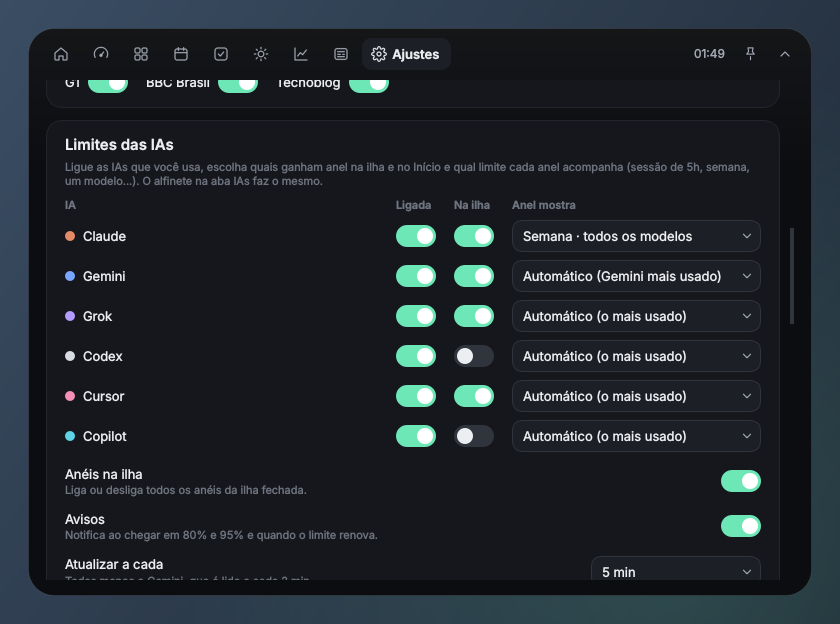
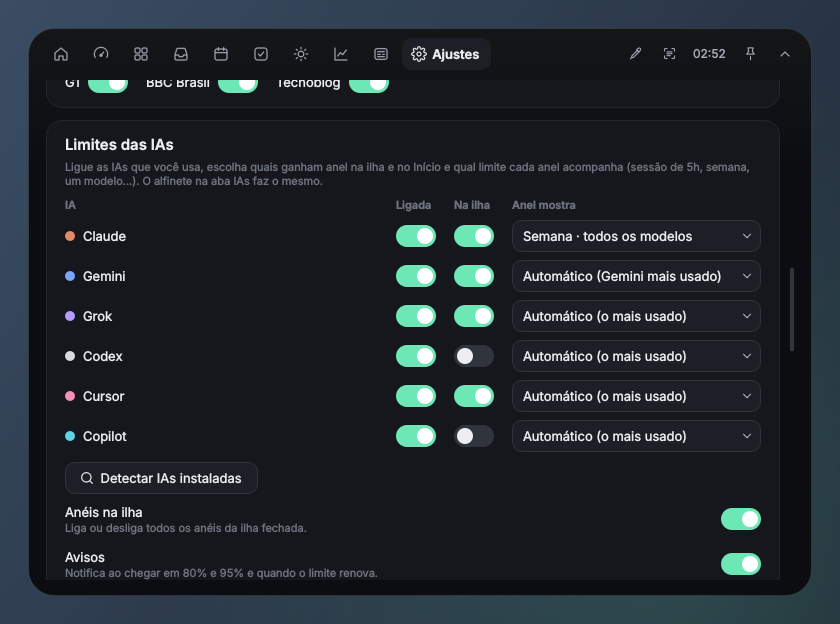
Prévias, documentação e ajustes finais da 1.2 (comandos, ritmo de consumo, estante)
Claude-Session: https://claude.ai/code/session_013kUwvXwXVcj5Q69VaPB3wL

diff --git a/scripts/preview.py b/scripts/preview.py
@@ -38,9 +38,9 @@ def demo_fetchers() -> dict:
             "claude",
             "ok",
             [
-                Window("session", "Sessão · 5h", 62, now + 2 * H + 14 * 60),
-                Window("weekly", "Semana · todos os modelos", 38, now + 3 * 86400 + 5 * H),
-                Window("weekly_opus", "Semana · Opus", 21, now + 3 * 86400 + 5 * H),
+                Window("session", "Sessão · 5h", 62, now + 2 * H + 14 * 60, period=5 * H),
+                Window("weekly", "Semana · todos os modelos", 38, now + 3 * 86400 + 5 * H, period=7 * 86400),
+                Window("weekly_opus", "Semana · Opus", 21, now + 3 * 86400 + 5 * H, period=7 * 86400),
             ],
             plan="Max 5x",
             source="Claude Code",
@@ -147,6 +147,19 @@ def seed(store: Store) -> None:
     store.add_shortcut("url", "Claude", "https://claude.ai")
     store.add_shortcut("folder", "Downloads", "/tmp")
     store.add_shortcut("url", "Gmail", "https://mail.google.com")
+    import math as _math
+
+    now_ts = time.time()
+    for provider, key, peak in (
+        ("claude", "session", 62),
+        ("antigravity", "model:gemini-3-pro", 24),
+        ("cursor", "plan", 72),
+    ):
+        for step in range(0, 24 * 12):  # uma amostra a cada 5 min nas últimas 24 h
+            ts = now_ts - (24 * 12 - step) * 300
+            phase = (step % 60) / 60  # janela de 5h que renova
+            used = min(100.0, peak * (0.15 + 0.85 * phase) + 4 * _math.sin(step / 7))
+            store.add_sample(provider, key, ts, max(0.0, used))
     import math
 
     plan = [
@@ -432,6 +445,55 @@ def main() -> None:
     media.state_changed.emit(None)
     settle(island, 700)
     shot(island, out / "30-ilha-clima.png", 18)
+    from PySide6.QtCore import QMimeData, QPoint
+
+    from ventude.ui.toast import Toast
+
+    ctx.shelf.add_text("Endereço da reunião: Av. Paulista, 1000")
+    ctx.shelf.add_paths([str(Path.home()), sys.executable, "https://github.com/3Gb3/Ventude_Notch"])
+    ctx.timer.start_pomodoro()
+    media.state = state
+    media.state_changed.emit(state)
+    settle(island, 800)
+    shot(island, out / "32-ilha-timer-estante.png", 18)
+    island.show_toast(
+        Toast(
+            "Claude: 85% usado",
+            "Sessão · 5h chegou a 85%. Renova em 1h 10min.",
+            icon="gauge",
+            color="#E38B67",
+            seconds=30,
+            kind="limits",
+        )
+    )
+    settle(island, 700)
+    shot(island, out / "33-aviso-na-ilha.png", 18)
+    island._cancel_toasts()
+    island.expand("home")
+    settle(island, 700)
+    shot(island, out / "34-inicio-timer.png")
+    island.panel.select("limits")
+    settle(island, 600)
+    shot(island, out / "35-ias-ritmo.png")
+    island.panel.select("shelf")
+    settle(island, 600)
+    shot(island, out / "36-estante.png")
+    island.panel.command.open_bar("t: revisar PR do app")
+    settle(island, 300)
+    shot(island, out / "37-comandos-tarefa.png")
+    island.panel.command.open_bar("git")
+    settle(island, 300)
+    shot(island, out / "38-comandos-atalho.png")
+    island.panel.command.close_bar()
+    hint = island.panel.drop_hint
+    hint.set_zones(["shelf", "shortcuts"])
+    hint.set_active("shelf")
+    hint.show()
+    hint.raise_()
+    settle(island, 200)
+    shot(island, out / "39-soltar-duas-areas.png")
+    hint.hide()
+    _ = (QMimeData, QPoint)
     island.expand("settings")
     settle(island, 400)
     page = island.panel.pages["settings"]

diff --git a/src/ventude/ui/pages/limits.py b/src/ventude/ui/pages/limits.py
@@ -5,7 +5,7 @@ from __future__ import annotations
 from PySide6.QtCore import Qt, Signal
 from PySide6.QtWidgets import QGridLayout, QHBoxLayout, QPushButton, QSizePolicy, QVBoxLayout, QWidget
 
-from ventude.core.timefmt import ago, duration, resets_text
+from ventude.core.timefmt import ago, duration, resets_text, short_reset
 from ventude.limits.model import Report, Window
 from ventude.ui import icons, theme
 from ventude.ui.context import AppContext
@@ -179,15 +179,20 @@ class ProviderCard(Card):
         if report.state == "ok":
             history = self.ctx.limits.history(self.provider, window.key, 3600) if not window.period else None
             left = window.exhausts_in(history=history)
-            note = f"ritmo alto: acaba em ~{duration(left)}" if left else ""
+            if left:  # no ritmo atual acaba antes de renovar: o aviso ocupa a linha
+                renew = short_reset(window.resets_at)
+                note = f"Acaba em ~{duration(left)}" + (f" · renova em {renew}" if renew else "")
+                sub = ""
         if window.detail and window.key.startswith(("mode:", "credits")):
             sub = f"{sub} · {window.detail}" if sub else window.detail
         tip = window.detail if window.key.startswith("model:") else ""
+        if note:
+            tip = f"No ritmo atual: {note.lower()}" + (f"\n{tip}" if tip else "")
         row.bar.set_data(
             window.label,
             used,
             theme.usage_color(self.provider, used),
-            sub or "Sem data de renovação",
+            sub or ("" if note else "Sem data de renovação"),
             tip,
             dim=report.state != "ok",
             note=note,

diff --git a/src/ventude/ui/command.py b/src/ventude/ui/command.py
@@ -112,8 +112,8 @@ class CommandBar(QFrame):
     def open_bar(self, text: str = "") -> None:
         self._close_timer.stop()
         parent = self.parentWidget()
-        width = min(560, parent.width() - 40)
-        self.setGeometry((parent.width() - width) // 2, 50, width, 0)
+        self._width = min(600, parent.width() - 40)
+        self.setGeometry((parent.width() - self._width) // 2, 50, self._width, 0)
         self.show()
         self.raise_()
         self.input.setText(text)
@@ -241,8 +241,7 @@ class CommandBar(QFrame):
         rows = min(self.results.count(), 7)
         self.results.setFixedHeight(rows * 34 + (4 if rows else 0))
         self.results.setVisible(bool(rows))
-        self.adjustSize()
-        self.resize(self.width(), self.sizeHint().height())
+        self.resize(getattr(self, "_width", self.width()), self.sizeHint().height())
 
     def _run(self, item: QListWidgetItem) -> None:
         command: Command = item.data(ACTION_ROLE)
@@ -251,7 +250,7 @@ class CommandBar(QFrame):
             self.results.clear()
             self.results.hide()
             self.status.setText(f"✓ {message}")
-            self.adjustSize()
+            self.resize(getattr(self, "_width", self.width()), self.sizeHint().height())
             self._close_timer.start()
         else:
             self.close_bar()

diff --git a/src/ventude/services/shelf.py b/src/ventude/services/shelf.py
@@ -63,7 +63,7 @@ class ShelfService(QObject):
         for raw in paths:
             raw = (raw or "").strip()
             if raw.startswith(("http://", "https://")):
-                added += self._add("link", raw, raw.split("//", 1)[-1][:60]) is not None
+                added += self._add("link", raw, link_name(raw)) is not None
                 continue
             path = Path(raw)
             if raw and path.exists():
@@ -114,6 +114,15 @@ class ShelfService(QObject):
                 Path(item.value).unlink(missing_ok=True)
         self.items.clear()
         self.changed.emit()
+
+
+def link_name(url: str) -> str:
+    """'https://github.com/a/b' -> 'github.com · b' (curto para caber no bloco)."""
+    rest = url.split("//", 1)[-1].rstrip("/")
+    host, _, path = rest.partition("/")
+    host = host.removeprefix("www.")
+    tail = path.rsplit("/", 1)[-1] if path else ""
+    return f"{host} · {tail[:30]}" if tail else host
 
 
 IMAGE_SUFFIXES = {".png", ".jpg", ".jpeg", ".gif", ".webp", ".bmp", ".svg"}

diff --git a/src/ventude/ui/widgets.py b/src/ventude/ui/widgets.py
@@ -317,11 +317,11 @@ class UsageBar(QWidget):
             fill = QRectF(bar.x(), bar.y(), max(6.0, bar.width() * min(self._used, 100) / 100), 6)
             p.setBrush(theme.color(self._color, 0.55 if self._dim else 1.0))
             p.drawRoundedRect(fill, 3, 3)
-        if self._sub:
+        if self._sub or self._note:
             p.setFont(theme.font(11))
             p.setPen(theme.color(theme.MUTED))
             fm = p.fontMetrics()
-            note = f" · {self._note}" if self._note else ""
+            note = (f" · {self._note}" if self._sub else self._note) if self._note else ""
             note_w = min(fm.horizontalAdvance(note), int(w * 0.62)) if note else 0
             sub = fm.elidedText(self._sub, Qt.TextElideMode.ElideRight, w - note_w)
             p.drawText(QRectF(0, 34, w, 16), Qt.AlignmentFlag.AlignVCenter, sub)

diff --git a/src/ventude/ui/pages/shelf.py b/src/ventude/ui/pages/shelf.py
@@ -15,7 +15,7 @@ from ventude.ui.pages.base import Page
 from ventude.ui.widgets import EmptyState, label
 
 ITEM_ROLE = Qt.ItemDataRole.UserRole
-TILE = QSize(116, 100)
+TILE = QSize(120, 114)
 
 
 def item_mime(items: list[ShelfItem]) -> QMimeData:
@@ -38,7 +38,7 @@ class ShelfGrid(QListWidget):
         self.setResizeMode(QListView.ResizeMode.Adjust)
         self.setMovement(QListView.Movement.Static)
         self.setGridSize(QSize(TILE.width() + 10, TILE.height() + 10))
-        self.setIconSize(QSize(44, 44))
+        self.setIconSize(QSize(40, 40))
         self.setWordWrap(True)
         self.setUniformItemSizes(True)
         self.setTextElideMode(Qt.TextElideMode.ElideMiddle)

diff --git a/src/ventude/ui/icons.py b/src/ventude/ui/icons.py
@@ -94,7 +94,7 @@ PATHS: dict[str, str] = {
     "inbox": '<path d="M3 13.5 5.5 5A2 2 0 0 1 7.4 3.5h9.2A2 2 0 0 1 18.5 5L21 13.5V19a2 2 0 0 1-2 2H5a2 '
     '2 0 0 1-2-2Z"/><path d="M3 13.5h5l1.5 2.5h5l1.5-2.5h5"/>',
     "scan": '<path d="M4 8V5.5A1.5 1.5 0 0 1 5.5 4H8M16 4h2.5A1.5 1.5 0 0 1 20 5.5V8'
-    'M20 16v2.5a1.5 1.5 0 0 1-1.5 '
+    "M20 16v2.5a1.5 1.5 0 0 1-1.5 "
     '1.5H16M8 20H5.5A1.5 1.5 0 0 1 4 18.5V16"/><path d="M8 9.5h8M8 12.5h8M8 15.5h5"/>',
     "pipette": '<path d="m14 6.5 3.5 3.5"/>'
     '<path d="M16.2 3.8a2.3 2.3 0 0 1 3.3 3.3l-2.3 2.3-3.3-3.3Z"/>'

diff --git a/README.md b/README.md
@@ -8,6 +8,10 @@ Uma Dynamic Island leve para Windows 10 e 11. Fica no topo da tela como uma píl
   <img src="docs/screens/ilha-pausada.png" alt="Ilha fechada com a música pausada" height="60">
 </p>
 <p align="center">
+  <img src="docs/screens/ilha-timer.png" alt="Ilha com música, estante, Pomodoro, clima e anéis" height="60">
+  <img src="docs/screens/aviso-na-ilha.png" alt="Aviso de limite na própria ilha" height="60">
+</p>
+<p align="center">
   <img src="docs/screens/inicio.png" alt="Painel Início" width="49%">
   <img src="docs/screens/ias.png" alt="Limites das IAs" width="49%">
 </p>
@@ -20,6 +24,11 @@ Uma Dynamic Island leve para Windows 10 e 11. Fica no topo da tela como uma píl
   <img src="docs/screens/clima-dia.png" alt="Detalhes do clima de um dia, hora a hora" width="49%">
   <img src="docs/screens/ajustes-ias.png" alt="Ajustes das IAs" width="49%">
 </p>
+<p align="center">
+  <img src="docs/screens/estante.png" alt="Estante temporária" width="32%">
+  <img src="docs/screens/soltar.png" alt="Soltar na estante ou nos atalhos" width="32%">
+  <img src="docs/screens/comandos.png" alt="Barra de comandos" width="32%">
+</p>
 
 ## O que tem
 
@@ -27,8 +36,9 @@ Uma Dynamic Island leve para Windows 10 e 11. Fica no topo da tela como uma píl
 |-----|-----------|
 | **Início** | Relógio, semana, próximo compromisso, clima, anéis das IAs, player e tarefas pendentes. |
 | **IAs** | Limites de cada IA, janela por janela (no Gemini, modelo por modelo, agrupados por família), com porcentagem usada e quando renova. O alfinete escolhe qual limite vai no anel da ilha. |
+| **Estante** | Guarda por um tempo arquivos, imagens, links e textos soltos na ilha, para arrastar depois para o navegador, o e-mail ou o Discord. Some ao fechar o Ventude. |
 | **Atalhos** | Apps, pastas, arquivos e sites a um clique. Arraste do Explorer para a ilha, mesmo fechada: ela abre nos Atalhos. |
-| **Agenda** | Calendário do mês e compromissos do dia (`14:00`, `14h`, `9-10`). |
+| **Agenda** | Calendário do mês e compromissos do dia (`14:00`, `14h`, `9-10`). Avisa na ilha 10 e 5 minutos antes. |
 | **Tarefas** | Listas rápidas: marque, edite com dois cliques e limpe as concluídas. |
 | **Clima** | Agora e próximos 7 dias, pelo Open-Meteo (sem chave). Clique num dia para ver umidade, chuva, vento, UV, nascer e pôr do sol e o gráfico hora a hora. |
 | **Mercado** | Sua lista de ações, índices, moedas e cripto, com gráfico do mês (Yahoo Finance). |
@@ -37,7 +47,12 @@ Uma Dynamic Island leve para Windows 10 e 11. Fica no topo da tela como uma píl
 
 Também tem:
 
-- Clima de agora (ícone e temperatura) na ilha fechada.
+- Clima de agora (ícone e temperatura) na ilha fechada, com aviso de chuva na próxima hora. Sem cidade escolhida, ele estima pelo IP.
+- **Na ilha fechada**: clique nos anéis abre a aba IAs, no clima abre o Clima, na data abre a Agenda. Clique do meio ou na capa toca/pausa, a roda do mouse muda o volume e Shift + roda troca de faixa. Uma linha fina mostra o andamento da música.
+- **Avisos na própria ilha**: limites das IAs, música nova e lembretes da Agenda aparecem por alguns segundos e somem.
+- **Timer e Pomodoro** pelo Início ou pela barra de comandos, com a contagem na ilha e um pulso ao terminar.
+- **Barra de comandos** (atalho global, Ctrl + K ou começar a digitar): abre atalhos, cria tarefas (`t: revisar PR`), compromissos (`a: call 15h`, `a: dentista amanhã 9h-10h`) e timers (`timer 15m`, `pomodoro`).
+- **Conta-gotas** (copia a cor em HEX) e **captura de texto** (OCR do próprio Windows) no topo do painel.
 - Player do Spotify com capa, avanço e controles; pausado, a música continua na ilha. Em **Ajustes > Música** dá para seguir qualquer player do Windows.
 - Abre na hora ao passar o mouse (o tempo é ajustável) e troca de aba com animação.
 - Avisos na bandeja quando uma IA chega a 80% e 95% e quando o limite renova.
@@ -58,6 +73,8 @@ O Ventude lê os limites direto das contas que você já usa. Nada passa por ser
 | **Cursor** | Lê o login que o **Cursor** instalado guarda no PC e mostra o uso incluído no plano por ciclo. Os modelos usados dentro do Cursor (Grok, Claude, GPT...) contam aqui. | Ligue em **Ajustes > Limites das IAs**. Sem o Cursor instalado, cole o cookie `WorkosCursorSessionToken` do cursor.com. |
 | **GitHub Copilot** | Lê o login da extensão do **Copilot** (VS Code, Visual Studio, JetBrains) e mostra as requisições premium, o chat e o autocompletar do mês. | Ligue em **Ajustes > Limites das IAs**. Sem a extensão, cole um token `ghu_…`/`gho_…`. |
 | **Grok** | Usa o login do **Grok CLI** (`%USERPROFILE%\.grok\auth.json`) para ler os créditos do ciclo, ou o cookie do **grok.com** para ler as consultas restantes de cada modo (Auto, Rápido, Expert). | Se usa o site, o app ou os bots, cole o "Copiar como cURL" (ou o cookie) do grok.com em **Ajustes > Grok**. O Grok usado dentro do Cursor conta no limite do Cursor, não no da conta Grok. |
+
+Na aba IAs, cada IA mostra um mini-gráfico do uso nas últimas horas e avisa quando, no ritmo atual, o limite vai acabar antes de renovar ("Acaba em ~1h 40min"). Codex, Cursor e Copilot já instalados são ligados sozinhos na primeira abertura da 1.2 (ou pelo botão **Detectar IAs instaladas**).
 
 Em **Ajustes > Limites das IAs**, uma tabela escolhe quais IAs ficam ligadas, quais ganham anel na ilha e no Início e **qual limite cada anel acompanha**: automático (o mais apertado), sessão de 5h, semana, um modelo específico... O alfinete na aba IAs faz o mesmo. Codex, Cursor e Copilot começam desligados.
 

diff --git a/docs/PROGRESS.md b/docs/PROGRESS.md
@@ -9,9 +9,23 @@ Ainda não está na `main`: outros ajustes entram nesta branch antes.
 - [x] **Escolher IAs e limites**: tabela em Ajustes com, para cada IA, "Ligada", "Na ilha" (anel na ilha e no Início) e "Anel mostra" (automático, sessão de 5h, semana, modelo...). As seções de cada IA só aparecem quando ela está ligada.
 - [x] Aba IAs em grade (até 3 por linha) e anéis do Início menores quando há mais de 3.
 
+- [x] **Clima central**: um só estado e um só relógio de 15 min para a ilha, o Início e a aba Clima (antes eram três buscas separadas). Cidade estimada pelo IP (ipinfo.io, ipwho.is de reserva) quando nenhuma foi escolhida. Aviso de chuva (≥ 60% na hora atual ou na próxima) na ilha.
+- [x] **Pílula interativa**: clique por área (anéis → IAs, clima → Clima, data → Agenda, hora/música → Início, estante → Estante); com o mouse em cima, anéis e clima abrem direto na aba deles. Sobre a música a abertura espera 0,65 s para dar tempo de: clique do meio ou na capa (tocar/pausar), roda (volume do Windows) e Shift + roda ou roda lateral (trocar de faixa).
+- [x] Anéis em alerta (amarelo/vermelho) mantêm o trilho e um ponto central na cor da IA.
+- [x] Largura da pílula pelo texto de verdade (data, clima, timer, estante, hora, música e anéis), entre 150 e 560 px. Linha fina com o andamento da música.
+- [x] **Avisos na ilha**: a ilha cresce para ~400×62 por alguns segundos com limites das IAs (80%/95% e renovação), música nova e lembretes da Agenda (10 e 5 min antes). Com o painel aberto, em tela cheia ou com o ajuste desligado, os importantes vão para a bandeja.
+- [x] **Limites**: detecção de Codex/Cursor/Copilot instalados (primeira abertura da 1.2 e botão em Ajustes); projeção "acaba em ~X" pelo ritmo desde o início da janela (ou pela última hora, quando a duração da janela não é conhecida); histórico em SQLite (amostra a cada 4 min, 8 dias) com mini-gráfico em cada IA.
+- [x] **Timer e Pomodoro** (25 + 5) no Início e na barra de comandos, com contagem e anel na ilha e pulso + aviso ao terminar.
+- [x] **Barra de comandos**: atalho global (ajustável), Ctrl + K ou começar a digitar; atalhos, abas, `t:` tarefa, `a:` compromisso (hoje/amanhã e horário), `timer 15m`, `pomodoro`, `parar`, `cor`, `ocr`.
+- [x] **Estante** (aba nova, já ligada): arrastar para a ilha mostra duas áreas, "Guardar na estante" e "Adicionar aos atalhos". Arquivos, pastas, imagens (inclusive do navegador), links e textos; arrastar para fora, colar da área de transferência, copiar, abrir. Some ao fechar o Ventude. Contador na ilha.
+- [x] **Conta-gotas** com lupa (HEX na área de transferência) e **captura de texto** por região com o OCR do Windows (Windows.Media.Ocr via WinRT), no topo do painel.
+
 ### A validar no seu PC
 
 - Codex, Cursor e Copilot com as suas contas: os endpoints de uso deles não são APIs públicas documentadas.
+- OCR do Windows (precisa de um idioma de OCR instalado: Configurações > Hora e idioma > Idioma) e conta-gotas com mais de um monitor e escalas diferentes.
+- Arrastar da Estante para o navegador, o e-mail e o Discord; imagens arrastadas do navegador.
+- Volume pela roda do mouse e lembretes da Agenda.
 
 ## Versão 1.1.0
 

diff --git a/docs/ARCHITECTURE.md b/docs/ARCHITECTURE.md
@@ -20,6 +20,7 @@ src/ventude/
     codex.py           Codex CLI (~/.codex/auth.json) ou cURL do chatgpt.com: janelas de 5h e semanal
     cursor.py          login do Cursor (state.vscdb, só leitura) ou cookie do cursor.com: uso do plano
     copilot.py         token da extensão do Copilot ou colado: cotas do mês
+    detect.py          quais IAs opcionais já têm login neste PC
     web.py             lê o que é colado do navegador: cookie, cabeçalhos, "Copiar como cURL"
     manager.py         agenda consultas, cache, estado "stale", avisos de 80/95% e renovação
   services/
@@ -28,13 +29,19 @@ src/ventude/
     market.py          Yahoo Finance (chart v8)
     news.py            RSS/Atom
     launcher.py        abrir apps, pastas, arquivos e sites
-    system.py          iniciar com o Windows, atalho global, detecção de tela cheia
+    system.py          iniciar com o Windows, atalho global, tela cheia, teclas de volume
+    timer.py           timer e Pomodoro (QTimer + time.monotonic)
+    shelf.py           estante temporária (itens em memória, imagens soltas em %APPDATA%\Ventude\estante)
+    ocr.py             OCR do Windows (Windows.Media.Ocr) numa thread de trabalho
   ui/
     theme.py           paleta, fonte do sistema e folha de estilo única
     icons.py           ícones SVG de traço (sem fontes de ícones)
     widgets.py         Card, Ring, UsageBar, Sparkline, Switch, CheckCircle, Equalizer...
-    context.py         AppContext: serviços + ajustes vivos + sinais compartilhados
-    island.py          janela da ilha: pílula, painel, animação, arraste, hover, atalho
+    context.py         AppContext: serviços + ajustes vivos + sinais compartilhados + clima central
+    island.py          janela da ilha: pílula (zonas), painel, avisos, animação, arraste, hover, atalho
+    toast.py           avisos na ilha e lembretes da Agenda
+    command.py         barra de comandos
+    capture.py         sobreposição de tela: conta-gotas e seleção para OCR
     tray.py            ícone e menu da bandeja, avisos
     pages/             uma classe por aba, criada só quando a aba é aberta
 ```
